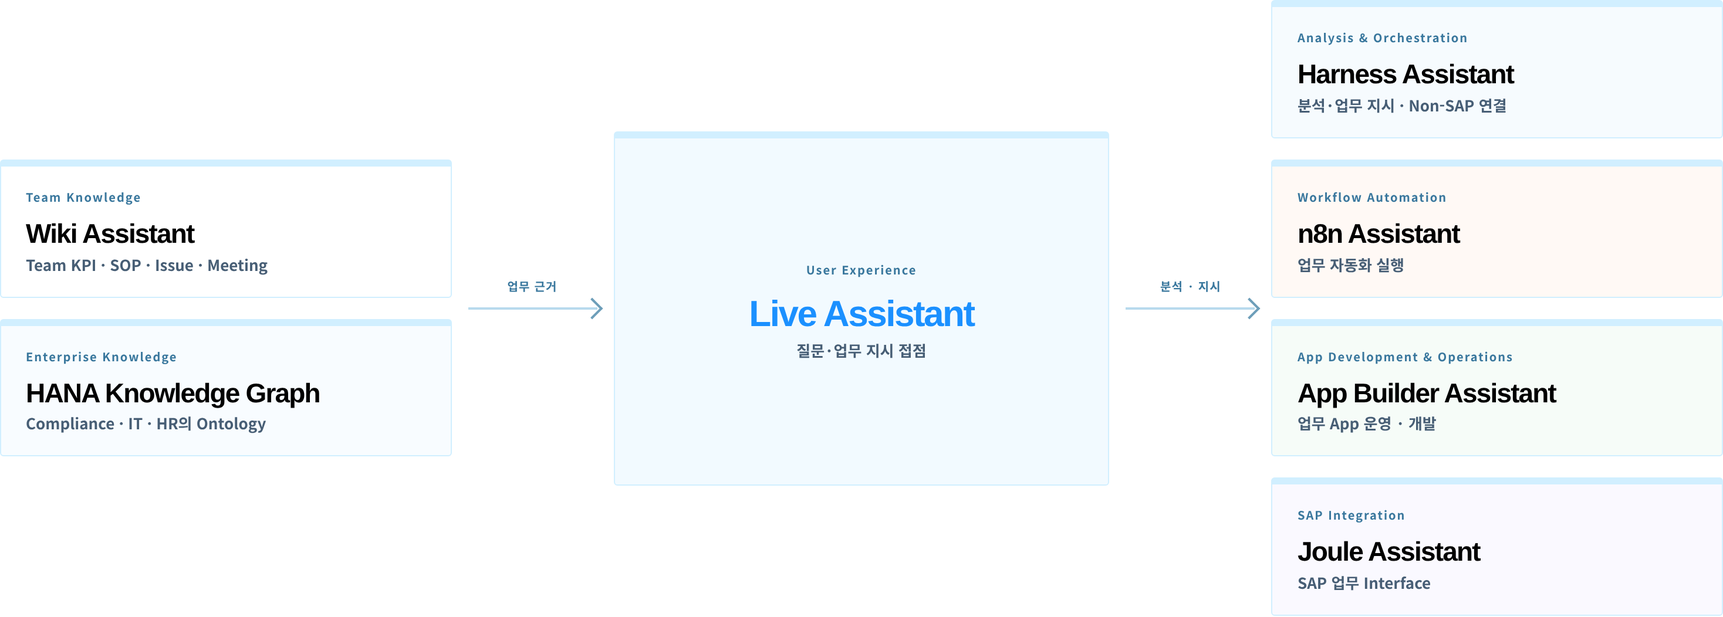
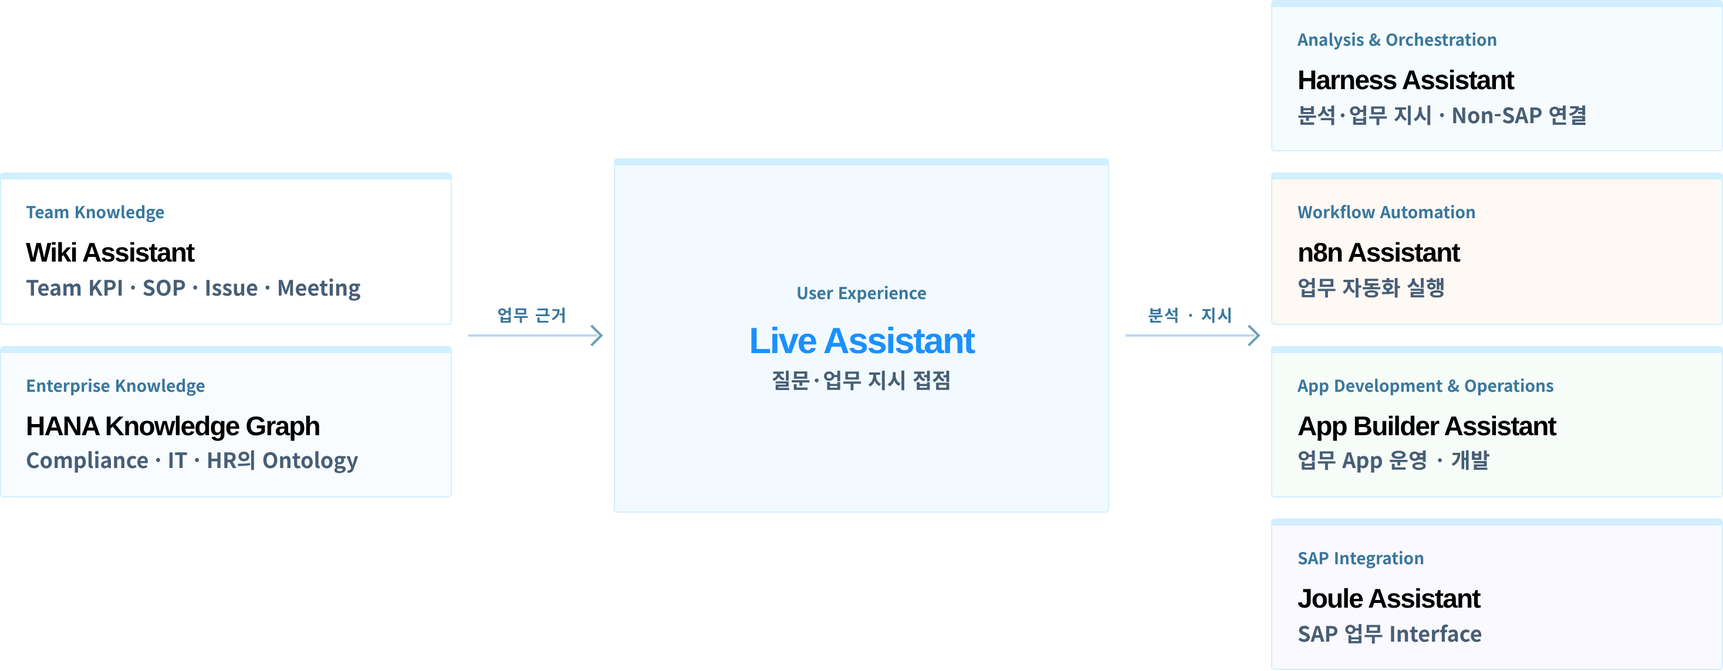
Improve slide typography and dense diagram readability

diff --git a/5page.html b/5page.html
@@ -1,4 +1,4 @@
 <!doctype html>
 <html lang="ko"><head><meta charset="utf-8"><meta name="viewport" content="width=device-width,initial-scale=1"><title>Demo — Cross-Team Operating Model | SAP BTP AI</title><link rel="stylesheet" href="sap-template.css"><style>
 *{box-sizing:border-box}body{margin:0;font-family:"72 Brand","SAP 72","Malgun Gothic",Arial,sans-serif}.slide{position:relative;width:min(100vw,1600px);min-height:900px;margin:auto;padding:76px 110px;color:#000000;overflow:hidden}.top-line{position:absolute;inset:0 0 auto;height:6px;background:#1b90ff}.brand{position:absolute;top:31px;right:110px}.kicker{margin:3px 0 14px;color:#0070f2;font-size:12px;font-weight:700;letter-spacing:.08em}h1{margin:0;font-size:52px;line-height:1.04;letter-spacing:-.04em}.teams{position:relative;display:grid;grid-template-columns:repeat(3,1fr);gap:0;margin-top:72px;border-top:1px solid #d5dde5;border-bottom:1px solid #d5dde5}.team{padding:24px 30px;border-left:1px solid #d5dde5;background:#fff}.team:nth-child(3n+1){border-left:0}.team:nth-child(n+4){border-top:1px solid #d5dde5}.team b{font-size:25px;font-weight:500}.team span{display:block;margin-top:6px;color:#475e75;font-size:13px}.foundation{position:absolute;right:110px;bottom:102px;left:110px;padding:20px 30px;border-left:6px solid #0070f2;background:#f4f9ff}.foundation small{color:#0070f2;font-size:11px;font-weight:700;letter-spacing:.08em}.foundation strong{display:block;margin-top:7px;font-size:25px;font-weight:500}.footer{position:absolute;left:110px;bottom:25px;color:#5b738b;font-size:11px}.slide-page-number{position:absolute;right:110px;bottom:24px;color:#5b738b;font-size:12px;font-weight:600}@media(max-width:800px){.slide{padding:70px 30px}.brand{right:30px}.teams{grid-template-columns:1fr;margin-top:35px}.team,.team:nth-child(3n+1){border:0;border-top:1px solid #d5dde5}.team:first-child{border-top:0}.foundation{right:30px;left:30px;bottom:76px}.footer{left:30px}.slide-page-number{right:30px}}
-</style><link rel="stylesheet" href="assets/deck-flow.css"><link rel="stylesheet" href="assets/korean-editorial.css"><link rel="stylesheet" href="assets/sap-official-template.css"><link rel="stylesheet" href="assets/single-line-copy.css"></head><body><main class="slide"><div class="top-line"></div><h1>Demo — Cross-Team Operating Model</h1><section class="teams" aria-label="Teams sharing a connected foundation"><div class="team"><b>영업 Team</b><img class="team-foundation-image" src="assets/connected-foundation-thumbnail.png" alt="Shared foundation: Wiki Assistant and HANA Knowledge Graph connect Live Assistant with Harness, n8n, App Builder and Joule"></div><div class="team"><b>생산관리 Team</b><img class="team-foundation-image" src="assets/connected-foundation-thumbnail.png" alt="Shared foundation: Wiki Assistant and HANA Knowledge Graph connect Live Assistant with Harness, n8n, App Builder and Joule"></div><div class="team"><b>구매 Team</b><img class="team-foundation-image" src="assets/connected-foundation-thumbnail.png" alt="Shared foundation: Wiki Assistant and HANA Knowledge Graph connect Live Assistant with Harness, n8n, App Builder and Joule"></div><div class="team"><b>영업관리 Team</b><img class="team-foundation-image" src="assets/connected-foundation-thumbnail.png" alt="Shared foundation: Wiki Assistant and HANA Knowledge Graph connect Live Assistant with Harness, n8n, App Builder and Joule"></div><div class="team"><b>SCM Team</b><img class="team-foundation-image" src="assets/connected-foundation-thumbnail.png" alt="Shared foundation: Wiki Assistant and HANA Knowledge Graph connect Live Assistant with Harness, n8n, App Builder and Joule"></div><div class="team"><b>경영관리 Team</b><img class="team-foundation-image" src="assets/connected-foundation-thumbnail.png" alt="Shared foundation: Wiki Assistant and HANA Knowledge Graph connect Live Assistant with Harness, n8n, App Builder and Joule"></div></section><span class="slide-page-number">25</span></main></body></html>
+</style><link rel="stylesheet" href="assets/deck-flow.css"><link rel="stylesheet" href="assets/korean-editorial.css"><link rel="stylesheet" href="assets/sap-official-template.css"><link rel="stylesheet" href="assets/single-line-copy.css"><link rel="stylesheet" href="assets/readable-type.css"></head><body><main class="slide"><div class="top-line"></div><h1>Demo — Cross-Team Operating Model</h1><section class="teams" aria-label="Teams sharing a connected foundation"><div class="team"><b>영업 Team</b><img class="team-foundation-image" src="assets/connected-foundation-thumbnail.png" alt="Shared foundation: Wiki Assistant and HANA Knowledge Graph connect Live Assistant with Harness, n8n, App Builder and Joule"></div><div class="team"><b>생산관리 Team</b><img class="team-foundation-image" src="assets/connected-foundation-thumbnail.png" alt="Shared foundation: Wiki Assistant and HANA Knowledge Graph connect Live Assistant with Harness, n8n, App Builder and Joule"></div><div class="team"><b>구매 Team</b><img class="team-foundation-image" src="assets/connected-foundation-thumbnail.png" alt="Shared foundation: Wiki Assistant and HANA Knowledge Graph connect Live Assistant with Harness, n8n, App Builder and Joule"></div><div class="team"><b>영업관리 Team</b><img class="team-foundation-image" src="assets/connected-foundation-thumbnail.png" alt="Shared foundation: Wiki Assistant and HANA Knowledge Graph connect Live Assistant with Harness, n8n, App Builder and Joule"></div><div class="team"><b>SCM Team</b><img class="team-foundation-image" src="assets/connected-foundation-thumbnail.png" alt="Shared foundation: Wiki Assistant and HANA Knowledge Graph connect Live Assistant with Harness, n8n, App Builder and Joule"></div><div class="team"><b>경영관리 Team</b><img class="team-foundation-image" src="assets/connected-foundation-thumbnail.png" alt="Shared foundation: Wiki Assistant and HANA Knowledge Graph connect Live Assistant with Harness, n8n, App Builder and Joule"></div></section><span class="slide-page-number">25</span></main></body></html>

diff --git a/app-ai-development-draft.html b/app-ai-development-draft.html
@@ -1,4 +1,4 @@
 <!doctype html>
 <html lang="ko"><head><meta charset="utf-8"><meta name="viewport" content="width=device-width,initial-scale=1"><title>App &amp; AI Development | SAP BTP AI</title><link rel="stylesheet" href="sap-template.css"><link rel="stylesheet" href="assets/korean-editorial.css"><link rel="stylesheet" href="assets/sap-official-template.css"><style>
 .development-draft *{box-sizing:border-box}.development-draft h1{margin:0;padding-right:110px}.draft-status{position:absolute;right:66px;top:76px;padding:6px 12px;background:#eaf5ff;color:#0070f2;font-size:14px}.development-intro{margin:22px 0 0;color:#475e75;font-size:23px;line-height:1.45}.development-layout{display:grid;grid-template-columns:minmax(0,2.15fr) minmax(0,1fr);gap:40px;align-items:center;margin-top:32px}.development-visual{margin:0}.development-visual img{display:block;width:100%;height:520px;object-fit:contain}.development-visual figcaption{margin:20px 0 0;padding-top:20px;border-top:1px solid #d1efff;font-size:19px;line-height:1.45;color:#475e75}.development-flow{display:grid;grid-template-columns:1fr;gap:18px}.development-step{position:relative;padding:14px 18px;border:1px solid #d1efff;border-top:3px solid #1b90ff;background:#f5faff}.development-step:not(:last-child)::after{content:'↓';position:absolute;left:50%;bottom:-20px;color:#0070f2;font-size:20px;line-height:18px}.development-step small{color:#0070f2;font-size:12px}.development-step h2{margin:8px 0;font-size:23px;font-weight:500;line-height:1.25}.development-step p{margin:0;font-size:17px;line-height:1.4;color:#475e75}.development-products{display:flex;flex-wrap:wrap;gap:12px;margin-top:18px}.development-products span{padding:7px 11px;background:#eaf5ff;color:#0070f2;font-size:16px}@media(max-width:800px){.development-layout{grid-template-columns:1fr}.draft-status{position:static;display:inline-block;margin-bottom:20px}.development-draft h1{padding-right:0}}
-</style><link rel="stylesheet" href="assets/single-line-copy.css"></head><body><main class="slide development-draft"><span class="draft-status">DRAFT</span><h1>App &amp; AI Development</h1><p class="development-intro">업무 요구를 새로운 App과 기능으로 구현 · 검증 후 업무에 적용</p><section class="development-layout" aria-label="App Builder development lifecycle with Codex App Server"><figure class="development-visual"><img src="assets/app-builder-ui-concept.png" alt="업무 요청 화면, App 생성 화면, 검증과 적용 화면을 보라색 연결선으로 이어주는 2D App Builder UI 콘셉트 일러스트."><figcaption>App Builder · 업무 요구를 실행 가능한 기능으로 확장</figcaption></figure><section class="development-flow" aria-label="Existing four development stages with Codex implementation"><article class="development-step"><small>01 · Define</small><h2>변경 요구 정의</h2><p>필요한 기능과 변경 범위 정의</p></article><article class="development-step"><small>02 · Build &amp; Extend</small><h2>App · Skill · Workflow</h2><p>AI 기반 App · 기능 개발과 변경</p></article><article class="development-step"><small>03 · Validate &amp; Approve</small><h2>검증과 승인</h2><p>분리된 환경에서 기능 검증 · 변경 승인</p></article><article class="development-step"><small>04 · Deploy &amp; Reuse</small><h2>배포와 재사용</h2><p>검증된 App 배포 · 업무 적용과 재사용</p></article></section></section><span class="slide-page-number">08</span></main></body></html>
+</style><link rel="stylesheet" href="assets/single-line-copy.css"><link rel="stylesheet" href="assets/readable-type.css"></head><body><main class="slide development-draft"><span class="draft-status">DRAFT</span><h1>App &amp; AI Development</h1><p class="development-intro">업무 요구를 새로운 App과 기능으로 구현 · 검증 후 업무에 적용</p><section class="development-layout" aria-label="App Builder development lifecycle with Codex App Server"><figure class="development-visual"><img src="assets/app-builder-ui-concept.png" alt="업무 요청 화면, App 생성 화면, 검증과 적용 화면을 보라색 연결선으로 이어주는 2D App Builder UI 콘셉트 일러스트."><figcaption>App Builder · 업무 요구를 실행 가능한 기능으로 확장</figcaption></figure><section class="development-flow" aria-label="Existing four development stages with Codex implementation"><article class="development-step"><small>01 · Define</small><h2>변경 요구 정의</h2><p>필요한 기능과 변경 범위 정의</p></article><article class="development-step"><small>02 · Build &amp; Extend</small><h2>App · Skill · Workflow</h2><p>AI 기반 App · 기능 개발과 변경</p></article><article class="development-step"><small>03 · Validate &amp; Approve</small><h2>검증과 승인</h2><p>분리된 환경에서 기능 검증 · 변경 승인</p></article><article class="development-step"><small>04 · Deploy &amp; Reuse</small><h2>배포와 재사용</h2><p>검증된 App 배포 · 업무 적용과 재사용</p></article></section></section><span class="slide-page-number">08</span></main></body></html>

diff --git a/8page.html b/8page.html
@@ -1,4 +1,4 @@
 <!doctype html>
 <html lang="ko"><head><meta charset="utf-8"><meta name="viewport" content="width=device-width,initial-scale=1"><title>Four Core Capabilities | SAP BTP AI</title><link rel="stylesheet" href="sap-template.css"><style>
 *{box-sizing:border-box}body{margin:0;background:#000000;font-family:"72 Brand","SAP 72",Arial,sans-serif}.slide{position:relative;width:min(100vw,1600px);min-height:900px;margin:auto;padding:76px 110px 78px;overflow:hidden;color:#000000}.top-line{position:absolute;inset:0 0 auto;height:6px;background:#1b90ff}.brand{position:absolute;top:31px;right:110px}.kicker{margin:3px 0 14px;color:#0070f2;font-size:12px;font-weight:700;letter-spacing:.08em}h1{margin:0;font-size:48px;line-height:1.08;letter-spacing:-.035em}.sub{margin:14px 0 34px;color:#475e75;font-size:19px}.grid{display:grid;grid-template-columns:repeat(4,1fr);gap:18px}.cap{min-height:315px;padding:25px 22px;border:1px solid #d5dde5;border-top:5px solid #89d1ff;background:#fff}.cap small{color:#0070f2;font-size:11px;font-weight:700;letter-spacing:.08em}.cap h2{margin:20px 0 15px;font-size:25px}.cap p{margin:0;color:#475e75;font-size:15px;line-height:1.45}.cap strong{display:block;margin-top:26px;color:#000000;font-size:15px}.cap:nth-child(2){border-top-color:#4d99c6}.cap:nth-child(3){border-top-color:#3e8e67}.cap:nth-child(4){border-top-color:#0070f2;background:#f4f9ff}.footer{position:absolute;left:110px;bottom:25px;color:#5b738b;font-size:11px}.slide-page-number{position:absolute;right:110px;bottom:24px;color:#5b738b;font-size:12px;font-weight:600}@media(max-width:800px){.slide{padding:70px 30px}.brand{right:30px}.grid{grid-template-columns:1fr}.footer{left:30px}.slide-page-number{right:30px}}
-</style><link rel="stylesheet" href="assets/deck-flow.css"><link rel="stylesheet" href="assets/korean-editorial.css"><link rel="stylesheet" href="assets/sap-official-template.css"><link rel="stylesheet" href="assets/integrated-model.css"><link rel="stylesheet" href="assets/single-line-copy.css"></head><body><main class="slide integrated-capabilities pdf-capability-map"><div class="top-line"></div><h1>Four Core Capabilities</h1><figure class="capability-visual" aria-label="Agent interoperability with governed workflows"><img src="assets/sap-pdf-p15-agent-interoperability.png" alt="SAP A2A Protocol and Agent Gateway connecting Joule Agents, Custom Agents and Third-party Agents"><figcaption><small>Agent Interoperability</small><h2>Agent 연결과 Workflow 통제</h2><p>권한·정책·승인 기반 실행 조율</p></figcaption></figure><section class="grid"><article class="cap"><h2>Agent Workflow &amp; Governance</h2><p>Agent · Tool 연결과 Workflow 설계</p></article><article class="cap"><h2>Business Context</h2><p>업무 Data · 지식 · 관계를 판단 근거로 구성</p></article><article class="cap"><h2>App &amp; AI Development</h2><p>새로운 App · 기능 개발 및 변경</p></article><article class="cap"><h2>Agentic Execution</h2><p>계획된 업무 수행 · 결과 검증 · 예외 처리</p></article></section><div class="capability-governance"><b>Cross-Cutting Governance</b><span>Context 접근 · App 변경 · 업무 실행 전체에 권한·정책·승인·추적을 적용</span></div><span class="slide-page-number">05</span></main></body></html>
+</style><link rel="stylesheet" href="assets/deck-flow.css"><link rel="stylesheet" href="assets/korean-editorial.css"><link rel="stylesheet" href="assets/sap-official-template.css"><link rel="stylesheet" href="assets/integrated-model.css"><link rel="stylesheet" href="assets/single-line-copy.css"><link rel="stylesheet" href="assets/readable-type.css"></head><body><main class="slide integrated-capabilities pdf-capability-map"><div class="top-line"></div><h1>Four Core Capabilities</h1><figure class="capability-visual" aria-label="Agent interoperability with governed workflows"><img src="assets/sap-pdf-p15-agent-interoperability.png" alt="SAP A2A Protocol and Agent Gateway connecting Joule Agents, Custom Agents and Third-party Agents"><figcaption><small>Agent Interoperability</small><h2>Agent 연결과 Workflow 통제</h2><p>권한·정책·승인 기반 실행 조율</p></figcaption></figure><section class="grid"><article class="cap"><h2>Agent Workflow &amp; Governance</h2><p>Agent · Tool 연결과 Workflow 설계</p></article><article class="cap"><h2>Business Context</h2><p>Data · 지식 · 관계 기반 판단</p></article><article class="cap"><h2>App &amp; AI Development</h2><p>새로운 App · 기능 개발 및 변경</p></article><article class="cap"><h2>Agentic Execution</h2><p>계획된 업무 수행 · 결과 검증 · 예외 처리</p></article></section><div class="capability-governance"><b>Cross-Cutting Governance</b><span>Context 접근 · App 변경 · 업무 실행 전체에 권한·정책·승인·추적을 적용</span></div><span class="slide-page-number">05</span></main></body></html>

diff --git a/6page.html b/6page.html
@@ -1,4 +1,4 @@
 <!doctype html>
 <html lang="ko"><head><meta charset="utf-8"><meta name="viewport" content="width=device-width,initial-scale=1"><title>Agentic Execution — Integrated Operating Model | SAP BTP AI</title><link rel="stylesheet" href="sap-template.css"><link rel="stylesheet" href="assets/korean-editorial.css"><link rel="stylesheet" href="assets/sap-official-template.css"><style>
 .execution-concept *{box-sizing:border-box}.execution-concept h1{margin:0}.execution-intro{margin:22px 0 0;color:#475e75;font-size:23px;line-height:1.45}.execution-layout{display:grid;grid-template-columns:minmax(0,2.15fr) minmax(0,1fr);gap:40px;align-items:center;margin-top:32px}.execution-visual{margin:0}.execution-visual img{display:block;width:100%;height:590px;object-fit:contain}.execution-stages{display:grid;grid-template-columns:1fr;gap:18px}.execution-stage{position:relative;padding:14px 18px;border:1px solid #d1efff;border-top:3px solid #1b90ff;background:#f5faff}.execution-stage:not(:last-child)::after{content:'↓';position:absolute;left:50%;bottom:-20px;color:#0070f2;font-size:20px;line-height:18px}.execution-stage small{color:#0070f2;font-size:12px}.execution-stage h2{margin:8px 0;font-size:23px;font-weight:500;line-height:1.25}.execution-stage p{margin:0;font-size:17px;line-height:1.4;color:#475e75}@media(max-width:800px){.execution-layout{grid-template-columns:1fr}.execution-visual img{height:auto}}
-</style><link rel="stylesheet" href="assets/single-line-copy.css"></head><body><main class="slide execution-concept"><h1>Agentic Execution — Integrated Operating Model</h1><p class="execution-intro">SAP 업무 연결 · 판단과 조율 · 기능 확장의 통합</p><section class="execution-layout" aria-label="Integrated execution and conditional application development"><figure class="execution-visual"><img src="assets/integrated-execution-ui-concept.png" alt="업무 요청 → Harness → Joule·Tools 실행 경로와, 기능 부족 시 App Builder → 검증·승인·배포 → 업무 실행에 재사용하는 조건부 경로를 함께 보여주는 2D UI 콘셉트."></figure><section class="execution-stages" aria-label="Four operating model stages"><article class="execution-stage"><small>01 · Business Request</small><h2>업무 요청</h2><p>목표와 기대 결과 전달</p></article><article class="execution-stage"><small>02 · Reason &amp; Orchestrate</small><h2>Harness</h2><p>Business Context 기반 판단·실행 조율</p></article><article class="execution-stage"><small>03 · SAP Access &amp; Execution</small><h2>Joule + Tools</h2><p>SAP Data 조회 · 허용된 업무 수행</p></article><article class="execution-stage"><small>04 · Validate &amp; Record</small><h2>검증과 기록</h2><p>결과 검증·기록 · 예외 전달</p></article></section></section><span class="slide-page-number">09</span></main></body></html>
+</style><link rel="stylesheet" href="assets/single-line-copy.css"><link rel="stylesheet" href="assets/readable-type.css"></head><body><main class="slide execution-concept"><h1>Agentic Execution — Integrated Operating Model</h1><p class="execution-intro">SAP 업무 연결 · 판단과 조율 · 기능 확장의 통합</p><section class="execution-layout" aria-label="Integrated execution and conditional application development"><figure class="execution-visual"><img src="assets/integrated-execution-ui-concept.png" alt="업무 요청 → Harness → Joule·Tools 실행 경로와, 기능 부족 시 App Builder → 검증·승인·배포 → 업무 실행에 재사용하는 조건부 경로를 함께 보여주는 2D UI 콘셉트."></figure><section class="execution-stages" aria-label="Four operating model stages"><article class="execution-stage"><small>01 · Business Request</small><h2>업무 요청</h2><p>목표와 기대 결과 전달</p></article><article class="execution-stage"><small>02 · Reason &amp; Orchestrate</small><h2>Harness</h2><p>Business Context 기반 판단·실행 조율</p></article><article class="execution-stage"><small>03 · SAP Access &amp; Execution</small><h2>Joule + Tools</h2><p>SAP Data 조회 · 허용된 업무 수행</p></article><article class="execution-stage"><small>04 · Validate &amp; Record</small><h2>검증과 기록</h2><p>결과 검증·기록 · 예외 전달</p></article></section></section><span class="slide-page-number">09</span></main></body></html>

diff --git a/17page.html b/17page.html
@@ -41,7 +41,7 @@
       .footer { position:absolute; left:110px; bottom:30px; color:#5b738b; font-size:14px; font-weight:600; }
       @media (max-width:800px) { .slide { min-height:100vh; padding:72px 30px 84px; } .brand { top:28px; right:30px; font-size:13px; } h1 { font-size:37px; white-space:normal; } .external-group-frame { display:none; } .comparison { display:block; } .comparison thead,.comparison tbody,.comparison tr,.comparison th,.comparison td { display:block; width:100%; height:auto; } .comparison th,.comparison td { padding:14px 18px; } .footer { left:30px; } }
     </style>
-  <link rel="stylesheet" href="assets/korean-editorial.css"><link rel="stylesheet" href="assets/sap-official-template.css"><link rel="stylesheet" href="assets/single-line-copy.css"></head>
+  <link rel="stylesheet" href="assets/korean-editorial.css"><link rel="stylesheet" href="assets/sap-official-template.css"><link rel="stylesheet" href="assets/single-line-copy.css"><link rel="stylesheet" href="assets/readable-type.css"></head>
   <body>
     <main class="slide">
       <div class="top-line"></div>
@@ -54,7 +54,7 @@
           <tbody>
             <tr><td class="category">Service Support</td><td><b>AWS Support</b><span>Service별 지원·운영 도구</span></td><td><b>Azure Support</b><span>Service별 지원·운영 도구</span></td><td class="work"><b>AI·App·S/4 Issue 통합 대응</b><span>장애 원인·책임 범위·재처리 흐름을 직접 정리</span></td><td class="btp"><b>One Support</b><span>App·통합·Platform 운영 기준</span></td></tr>
             <tr><td class="category">Standard Change</td><td><b>Cloud Service Updates</b><span>Service별 변경 공지·검증</span></td><td><b>Azure Service Updates</b><span>Service별 변경 공지·검증</span></td><td class="work"><b>표준·Version 변경 영향 확인</b><span>AI·연동·배포 설정을 업무 App별로 점검</span></td><td class="btp"><b>Reference Architecture</b><span>표준 변경·Version 관리 기준</span></td></tr>
-            <tr><td class="category">S/4 Change Impact</td><td><b>API Monitoring Tools</b><span>연계 오류·Log 개별 확인</span></td><td><b>API Management · Monitor</b><span>연계 오류·Log 개별 확인</span></td><td class="work"><b>S/4 API·Data 변경 영향 분석</b><span>AI·Knowledge·업무 App의 영향과 Test 직접 관리</span></td><td class="btp"><b>Destination · Integration Suite</b><span>SAP 연결·변경 영향 관리</span></td></tr>
+            <tr><td class="category">S/4 Change Impact</td><td><b>API Monitoring Tools</b><span>연계 오류·Log 개별 확인</span></td><td><b>API Management · Monitor</b><span>연계 오류·Log 개별 확인</span></td><td class="work"><b>S/4 API·Data 변경 영향 분석</b><span>AI·Knowledge·App 영향 및 Test 관리</span></td><td class="btp"><b>Destination · Integration Suite</b><span>SAP 연결·변경 영향 관리</span></td></tr>
             <tr><td class="category">AI &amp; App Operations</td><td><b>CloudWatch · CloudTrail</b><span>Infrastructure·감사 Log 관리</span></td><td><b>Azure Monitor · Purview</b><span>Infrastructure·감사 Log 관리</span></td><td class="work"><b>AI·App·배포 이력 통합 관리</b><span>Model·Prompt·권한·배포 변경을 별도 운영</span></td><td class="btp"><b>SAP AI Launchpad · Kyma · SAP Build</b><span>AI·App·배포 통합 운영</span></td></tr>
           </tbody>
         </table>

diff --git a/app-builder-explanation.html b/app-builder-explanation.html
@@ -1,5 +1,5 @@
 <!doctype html>
-<html lang="ko"><head><meta charset="utf-8"><meta name="viewport" content="width=device-width,initial-scale=1"><title>App Builder — App 변경과 배포 | SAP BTP AI</title><link rel="stylesheet" href="sap-template.css"><link rel="stylesheet" href="assets/deck-flow.css"><link rel="stylesheet" href="assets/korean-editorial.css"><link rel="stylesheet" href="assets/sap-official-template.css"><link rel="stylesheet" href="assets/app-builder-explanation.css"><link rel="stylesheet" href="assets/single-line-copy.css"></head><body><main class="slide app-builder-detail"><h1>App Builder — App 변경과 배포</h1><section class="workflow-shell" aria-label="Self-healing daily and new supplier processes">
+<html lang="ko"><head><meta charset="utf-8"><meta name="viewport" content="width=device-width,initial-scale=1"><title>App Builder — App 변경과 배포 | SAP BTP AI</title><link rel="stylesheet" href="sap-template.css"><link rel="stylesheet" href="assets/deck-flow.css"><link rel="stylesheet" href="assets/korean-editorial.css"><link rel="stylesheet" href="assets/sap-official-template.css"><link rel="stylesheet" href="assets/app-builder-explanation.css"><link rel="stylesheet" href="assets/single-line-copy.css"><link rel="stylesheet" href="assets/readable-type.css"></head><body><main class="slide app-builder-detail"><h1>App Builder — App 변경과 배포</h1><section class="workflow-shell" aria-label="Self-healing daily and new supplier processes">
         <div class="shared-entry"><small>COMMON START</small><strong>납품 문서 수신</strong></div>
         <div class="format-rail" aria-label="수신 Data 형식">
           <div class="format-icon"><svg viewBox="0 0 48 48" aria-hidden="true"><path d="M10 5h20l8 8v30H10z"/><path d="M30 5v9h8"/><circle cx="19" cy="22" r="3"/><path d="m14 33 7-7 5 5 4-4 4 6"/></svg><strong>Image 문서</strong></div>
@@ -18,8 +18,8 @@
           <div class="process-head"><b>ISSUE without App Builder</b> 신규 업체 추가 Process</div>
           <div class="process-flow">
             <div class="process-node"><em class="cost-badge">형식 차이</em><strong>OCR 실패</strong><span>인식 불가 형식 감지</span></div>
-            <div class="process-node"><em class="cost-badge">IT 인력 필요</em><strong>IT 추가개발 요청</strong><span>개발 요청 · 우선순위 조율</span></div>
-            <div class="process-node"><em class="cost-badge">개발 대기</em><strong>추가개발</strong><span>신규 형식 대응 Logic 구현</span></div>
+            <div class="process-node"><em class="cost-badge">IT 인력 필요</em><strong>IT 추가개발 요청</strong><span>개발 요청·순위 조율</span></div>
+            <div class="process-node"><em class="cost-badge">개발 대기</em><strong>추가개발</strong><span>신규 형식 Logic 구현</span></div>
             <div class="process-node"><em class="cost-badge">운영 지연</em><strong>배포</strong><span>변경 사항 운영 반영</span></div>
             <div class="process-node"><em class="cost-badge">기준 보완</em><strong>기준수정</strong><span>처리 기준 반영</span></div>
             <div class="process-node"><em class="cost-badge">재작업</em><strong>입고 반영</strong><span>운영 계획 반영</span></div>

diff --git a/assets/readable-type.css b/assets/readable-type.css
@@ -1,0 +1,58 @@
+/* Presentation readability at the deck's 1600 × 900 design size. */
+@media (min-width:801px) {
+ .slide small, .slide .visual-eyebrow { font-size:14px !important; letter-spacing:0; }
+ .slide .chapter-agenda li>span { font-size:18px; }
+ .pdf-capability-map .cap p, .development-step p, .execution-stage p { font-size:18px !important; }
+ .comparison-template .request p { font-size:16px; }
+ .comparison-template .question-rail strong { font-size:18px; }
+ .comparison-template .content { grid-template-columns:170px 250px minmax(0,1fr); gap:18px; }
+ .comparison-template .request { padding:16px; }
+ .comparison-template .lane-head b { font-size:16px; }
+ .comparison-template .item { padding-left:8px; padding-right:8px; }
+ .comparison-template .item h2 { font-size:19px; }
+ .comparison-template .item p { font-size:16px; }
+ .comparison-template .flow { gap:12px; }
+ .comparison-template .lane { padding-left:12px; padding-right:12px; }
+ .slide .parallel-query span { font-size:14px; }
+ .slide .parallel-query b { font-size:18px; }
+ .slide .module p { font-size:18px; }
+ .slide .connector-label { font-size:14px; }
+ .app-builder-detail .process-node strong { font-size:19px; }
+ .app-builder-detail .process-node span { font-size:16px; }
+ .app-builder-detail .cost-badge, .app-builder-detail .process-head b { font-size:14px; }
+ .app-builder-detail .format-icon strong { font-size:16px; }
+ .slide .comparison td.category { font-size:14px; padding:8px 4px; }
+ .slide .comparison b { font-size:17px; }
+ .slide .comparison span { font-size:14px; }
+ .slide .comparison td.work b { font-size:16px; }
+ .slide .comparison td.work span { font-size:14px; }
+ .slide .comparison td.btp b { font-size:19px; }
+ .slide .comparison td.btp span { font-size:16px; }
+ .slide .comparison th.work { font-size:19px; }
+ .slide .comparison td { padding-left:8px; padding-right:8px; }
+ .slide .operation-table td, .slide .operation-table .team td { font-size:16px; }
+ .slide .operation-table .cell-title, .slide .operation-table .team .cell-title { font-size:16px; }
+ .slide .operation-table .enterprise-row td { font-size:17px; }
+ .slide .response-table td { font-size:17px; }
+ .slide .divider { font-size:16px; }
+ .slide .scenario .description { font-size:18px; }
+ .slide .scenario .agent-name { font-size:19px; }
+ .slide .scenario .flow-step { font-size:18px; }
+ .slide .scenario .scenario-number, .slide .scenario .demo-label { font-size:16px; }
+}
+@media (min-width:801px) {
+ .slide .step { font-size:16px; }
+ .slide .step b { font-size:17px; }
+ .slide .agent-capability-label { font-size:14px; }
+ .slide .agent-capability-item span { font-size:16px; }
+ .app-builder-detail .format-icon.issue strong { font-size:16px; }
+ .slide .label { font-size:16px; }
+ .slide .parallel-query span { width:112px; margin-left:-11px; }
+}
+@media (min-width:801px) {
+ .slide .agent-capability { grid-template-columns:220px 1fr 1fr; }
+ .slide .agent-capability-label { white-space:nowrap; }
+ .business-context-detail .operation-table td { padding-top:6px; padding-bottom:6px; }
+ .business-context-detail .response-table td { padding-top:5px; padding-bottom:5px; }
+ .business-context-detail .divider { margin-top:10px; margin-bottom:6px; }
+}

diff --git a/divider-01-vision.html b/divider-01-vision.html
@@ -1,2 +1,2 @@
 <!doctype html>
-<html lang="ko"><head><meta charset="utf-8"><meta name="viewport" content="width=device-width,initial-scale=1"><title>Autonomous Enterprise &amp; Governance | SAP BTP AI</title><link rel="stylesheet" href="sap-template.css"><link rel="stylesheet" href="assets/deck-flow.css"><link rel="stylesheet" href="assets/korean-editorial.css"><link rel="stylesheet" href="assets/sap-official-template.css"><link rel="stylesheet" href="assets/single-line-copy.css"></head><body><main class="slide flow-slide chapter-slide single-line-chapter"><div class="top-line"></div><img class="chapter-art" src="assets/sap-official-divider-art.png" alt=""><h1>Autonomous Enterprise &amp; Governance</h1><p class="chapter-subtitle">AI-Native 기업의 핵심 역량과 Business Context · 통제된 Execution Loop</p><ol class="chapter-agenda"><li class="current" aria-current="step"><span>01</span><div><b>Autonomous Enterprise &amp; Governance</b><small>AI-Native · Business Context · Governance</small></div></li><li class=""><span>02</span><div><b>Agentic Execution</b><small>Integrated Operating Model · Agent 역할 · A2A</small></div></li><li class=""><span>03</span><div><b>SAP BTP Architecture</b><small>Logical Architecture · Implementation · Operations</small></div></li><li class=""><span>04</span><div><b>Demo &amp; Business Value</b><small>Business Challenges · SCM Demo · Business Outcomes</small></div></li></ol><span class="slide-page-number">03</span></main></body></html>
+<html lang="ko"><head><meta charset="utf-8"><meta name="viewport" content="width=device-width,initial-scale=1"><title>Autonomous Enterprise &amp; Governance | SAP BTP AI</title><link rel="stylesheet" href="sap-template.css"><link rel="stylesheet" href="assets/deck-flow.css"><link rel="stylesheet" href="assets/korean-editorial.css"><link rel="stylesheet" href="assets/sap-official-template.css"><link rel="stylesheet" href="assets/single-line-copy.css"><link rel="stylesheet" href="assets/readable-type.css"></head><body><main class="slide flow-slide chapter-slide single-line-chapter"><div class="top-line"></div><img class="chapter-art" src="assets/sap-official-divider-art.png" alt=""><h1>Autonomous Enterprise &amp; Governance</h1><p class="chapter-subtitle">AI-Native 기업의 핵심 역량과 Business Context · 통제된 Execution Loop</p><ol class="chapter-agenda"><li class="current" aria-current="step"><span>01</span><div><b>Autonomous Enterprise &amp; Governance</b><small>AI-Native · Business Context · Governance</small></div></li><li class=""><span>02</span><div><b>Agentic Execution</b><small>Integrated Operating Model · Agent 역할 · A2A</small></div></li><li class=""><span>03</span><div><b>SAP BTP Architecture</b><small>Logical Architecture · Implementation · Operations</small></div></li><li class=""><span>04</span><div><b>Demo &amp; Business Value</b><small>Business Challenges · SCM Demo · Business Outcomes</small></div></li></ol><span class="slide-page-number">03</span></main></body></html>

diff --git a/divider-02-agents.html b/divider-02-agents.html
@@ -1,2 +1,2 @@
 <!doctype html>
-<html lang="ko"><head><meta charset="utf-8"><meta name="viewport" content="width=device-width,initial-scale=1"><title>Agentic Execution | SAP BTP AI</title><link rel="stylesheet" href="sap-template.css"><link rel="stylesheet" href="assets/deck-flow.css"><link rel="stylesheet" href="assets/korean-editorial.css"><link rel="stylesheet" href="assets/sap-official-template.css"><link rel="stylesheet" href="assets/single-line-copy.css"></head><body><main class="slide flow-slide chapter-slide"><div class="top-line"></div><img class="chapter-art" src="assets/sap-official-divider-art.png" alt=""><h1>Agentic Execution</h1><p class="chapter-subtitle">통합 운영 모델과 Human + Agent 역할 분담 · 판단·실행·협업</p><ol class="chapter-agenda"><li class=""><span>01</span><div><b>Autonomous Enterprise &amp; Governance</b><small>AI-Native · Business Context · Governance</small></div></li><li class="current" aria-current="step"><span>02</span><div><b>Agentic Execution</b><small>Integrated Operating Model · Agent 역할 · A2A</small></div></li><li class=""><span>03</span><div><b>SAP BTP Architecture</b><small>Logical Architecture · Implementation · Operations</small></div></li><li class=""><span>04</span><div><b>Demo &amp; Business Value</b><small>Business Challenges · SCM Demo · Business Outcomes</small></div></li></ol><span class="slide-page-number">10</span></main></body></html>
+<html lang="ko"><head><meta charset="utf-8"><meta name="viewport" content="width=device-width,initial-scale=1"><title>Agentic Execution | SAP BTP AI</title><link rel="stylesheet" href="sap-template.css"><link rel="stylesheet" href="assets/deck-flow.css"><link rel="stylesheet" href="assets/korean-editorial.css"><link rel="stylesheet" href="assets/sap-official-template.css"><link rel="stylesheet" href="assets/single-line-copy.css"><link rel="stylesheet" href="assets/readable-type.css"></head><body><main class="slide flow-slide chapter-slide"><div class="top-line"></div><img class="chapter-art" src="assets/sap-official-divider-art.png" alt=""><h1>Agentic Execution</h1><p class="chapter-subtitle">통합 운영 모델과 Human + Agent 역할 분담 · 판단·실행·협업</p><ol class="chapter-agenda"><li class=""><span>01</span><div><b>Autonomous Enterprise &amp; Governance</b><small>AI-Native · Business Context · Governance</small></div></li><li class="current" aria-current="step"><span>02</span><div><b>Agentic Execution</b><small>Integrated Operating Model · Agent 역할 · A2A</small></div></li><li class=""><span>03</span><div><b>SAP BTP Architecture</b><small>Logical Architecture · Implementation · Operations</small></div></li><li class=""><span>04</span><div><b>Demo &amp; Business Value</b><small>Business Challenges · SCM Demo · Business Outcomes</small></div></li></ol><span class="slide-page-number">10</span></main></body></html>

diff --git a/21page.html b/21page.html
@@ -1,2 +1,2 @@
 <!doctype html>
-<html lang="ko"><head><meta charset="utf-8"><meta name="viewport" content="width=device-width,initial-scale=1"><title>Demo &amp; Business Value | SAP BTP AI</title><link rel="stylesheet" href="sap-template.css"><link rel="stylesheet" href="assets/deck-flow.css"><link rel="stylesheet" href="assets/korean-editorial.css"><link rel="stylesheet" href="assets/sap-official-template.css"><link rel="stylesheet" href="assets/single-line-copy.css"></head><body><main class="slide flow-slide chapter-slide"><div class="top-line"></div><img class="chapter-art" src="assets/sap-official-divider-art.png" alt=""><h1>Demo &amp; Business Value</h1><p class="chapter-subtitle">조직의 문제에서 SCM 실행과 Business Value까지</p><ol class="chapter-agenda"><li class=""><span>01</span><div><b>Autonomous Enterprise &amp; Governance</b><small>AI-Native · Business Context · Governance</small></div></li><li class=""><span>02</span><div><b>Agentic Execution</b><small>Integrated Operating Model · Agent 역할 · A2A</small></div></li><li class=""><span>03</span><div><b>SAP BTP Architecture</b><small>Logical Architecture · Implementation · Operations</small></div></li><li class="current" aria-current="step"><span>04</span><div><b>Demo &amp; Business Value</b><small>Business Challenges · SCM Demo · Business Outcomes</small></div></li></ol><span class="slide-page-number">22</span></main></body></html>
+<html lang="ko"><head><meta charset="utf-8"><meta name="viewport" content="width=device-width,initial-scale=1"><title>Demo &amp; Business Value | SAP BTP AI</title><link rel="stylesheet" href="sap-template.css"><link rel="stylesheet" href="assets/deck-flow.css"><link rel="stylesheet" href="assets/korean-editorial.css"><link rel="stylesheet" href="assets/sap-official-template.css"><link rel="stylesheet" href="assets/single-line-copy.css"><link rel="stylesheet" href="assets/readable-type.css"></head><body><main class="slide flow-slide chapter-slide"><div class="top-line"></div><img class="chapter-art" src="assets/sap-official-divider-art.png" alt=""><h1>Demo &amp; Business Value</h1><p class="chapter-subtitle">조직의 문제에서 SCM 실행과 Business Value까지</p><ol class="chapter-agenda"><li class=""><span>01</span><div><b>Autonomous Enterprise &amp; Governance</b><small>AI-Native · Business Context · Governance</small></div></li><li class=""><span>02</span><div><b>Agentic Execution</b><small>Integrated Operating Model · Agent 역할 · A2A</small></div></li><li class=""><span>03</span><div><b>SAP BTP Architecture</b><small>Logical Architecture · Implementation · Operations</small></div></li><li class="current" aria-current="step"><span>04</span><div><b>Demo &amp; Business Value</b><small>Business Challenges · SCM Demo · Business Outcomes</small></div></li></ol><span class="slide-page-number">22</span></main></body></html>

diff --git a/divider-04-platform.html b/divider-04-platform.html
@@ -1,2 +1,2 @@
 <!doctype html>
-<html lang="ko"><head><meta charset="utf-8"><meta name="viewport" content="width=device-width,initial-scale=1"><title>SAP BTP Architecture | SAP BTP AI</title><link rel="stylesheet" href="sap-template.css"><link rel="stylesheet" href="assets/deck-flow.css"><link rel="stylesheet" href="assets/korean-editorial.css"><link rel="stylesheet" href="assets/sap-official-template.css"><link rel="stylesheet" href="assets/single-line-copy.css"></head><body><main class="slide flow-slide chapter-slide"><div class="top-line"></div><img class="chapter-art" src="assets/sap-official-divider-art.png" alt=""><h1>SAP BTP Architecture</h1><p class="chapter-subtitle">SAP BTP 기반의 구현 구조와 운영</p><ol class="chapter-agenda"><li class=""><span>01</span><div><b>Autonomous Enterprise &amp; Governance</b><small>AI-Native · Business Context · Governance</small></div></li><li class=""><span>02</span><div><b>Agentic Execution</b><small>Integrated Operating Model · Agent 역할 · A2A</small></div></li><li class="current" aria-current="step"><span>03</span><div><b>SAP BTP Architecture</b><small>Logical Architecture · Implementation · Operations</small></div></li><li class=""><span>04</span><div><b>Demo &amp; Business Value</b><small>Business Challenges · SCM Demo · Business Outcomes</small></div></li></ol><span class="slide-page-number">17</span></main></body></html>
+<html lang="ko"><head><meta charset="utf-8"><meta name="viewport" content="width=device-width,initial-scale=1"><title>SAP BTP Architecture | SAP BTP AI</title><link rel="stylesheet" href="sap-template.css"><link rel="stylesheet" href="assets/deck-flow.css"><link rel="stylesheet" href="assets/korean-editorial.css"><link rel="stylesheet" href="assets/sap-official-template.css"><link rel="stylesheet" href="assets/single-line-copy.css"><link rel="stylesheet" href="assets/readable-type.css"></head><body><main class="slide flow-slide chapter-slide"><div class="top-line"></div><img class="chapter-art" src="assets/sap-official-divider-art.png" alt=""><h1>SAP BTP Architecture</h1><p class="chapter-subtitle">SAP BTP 기반의 구현 구조와 운영</p><ol class="chapter-agenda"><li class=""><span>01</span><div><b>Autonomous Enterprise &amp; Governance</b><small>AI-Native · Business Context · Governance</small></div></li><li class=""><span>02</span><div><b>Agentic Execution</b><small>Integrated Operating Model · Agent 역할 · A2A</small></div></li><li class="current" aria-current="step"><span>03</span><div><b>SAP BTP Architecture</b><small>Logical Architecture · Implementation · Operations</small></div></li><li class=""><span>04</span><div><b>Demo &amp; Business Value</b><small>Business Challenges · SCM Demo · Business Outcomes</small></div></li></ol><span class="slide-page-number">17</span></main></body></html>

diff --git a/agenda.html b/agenda.html
@@ -1,2 +1,2 @@
 <!doctype html>
-<html lang="ko"><head><meta charset="utf-8"><meta name="viewport" content="width=device-width,initial-scale=1"><title>Presentation Agenda | SAP BTP AI</title><link rel="stylesheet" href="sap-template.css"><link rel="stylesheet" href="assets/deck-flow.css"><link rel="stylesheet" href="assets/korean-editorial.css"><link rel="stylesheet" href="assets/sap-official-template.css"><link rel="stylesheet" href="assets/single-line-copy.css"></head><body><main class="slide flow-slide official-agenda"><div class="top-line"></div><h1>Presentation Agenda</h1><div class="agenda-layout"><div><ol class="chapter-agenda"><li class=""><span>01</span><div><b>Autonomous Enterprise &amp; Governance</b><small>AI-Native · Business Context · Governance</small></div></li><li class=""><span>02</span><div><b>Agentic Execution</b><small>Integrated Operating Model · Agent 역할 · A2A</small></div></li><li class=""><span>03</span><div><b>SAP BTP Architecture</b><small>Logical Architecture · Implementation · Operations</small></div></li><li class=""><span>04</span><div><b>Demo &amp; Business Value</b><small>Business Challenges · SCM Demo · Business Outcomes</small></div></li></ol></div><figure><img src="assets/sap-official-agenda-art.png" alt=""></figure></div><span class="slide-page-number">02</span></main></body></html>
+<html lang="ko"><head><meta charset="utf-8"><meta name="viewport" content="width=device-width,initial-scale=1"><title>Presentation Agenda | SAP BTP AI</title><link rel="stylesheet" href="sap-template.css"><link rel="stylesheet" href="assets/deck-flow.css"><link rel="stylesheet" href="assets/korean-editorial.css"><link rel="stylesheet" href="assets/sap-official-template.css"><link rel="stylesheet" href="assets/single-line-copy.css"><link rel="stylesheet" href="assets/readable-type.css"></head><body><main class="slide flow-slide official-agenda"><div class="top-line"></div><h1>Presentation Agenda</h1><div class="agenda-layout"><div><ol class="chapter-agenda"><li class=""><span>01</span><div><b>Autonomous Enterprise &amp; Governance</b><small>AI-Native · Business Context · Governance</small></div></li><li class=""><span>02</span><div><b>Agentic Execution</b><small>Integrated Operating Model · Agent 역할 · A2A</small></div></li><li class=""><span>03</span><div><b>SAP BTP Architecture</b><small>Logical Architecture · Implementation · Operations</small></div></li><li class=""><span>04</span><div><b>Demo &amp; Business Value</b><small>Business Challenges · SCM Demo · Business Outcomes</small></div></li></ol></div><figure><img src="assets/sap-official-agenda-art.png" alt=""></figure></div><span class="slide-page-number">02</span></main></body></html>
